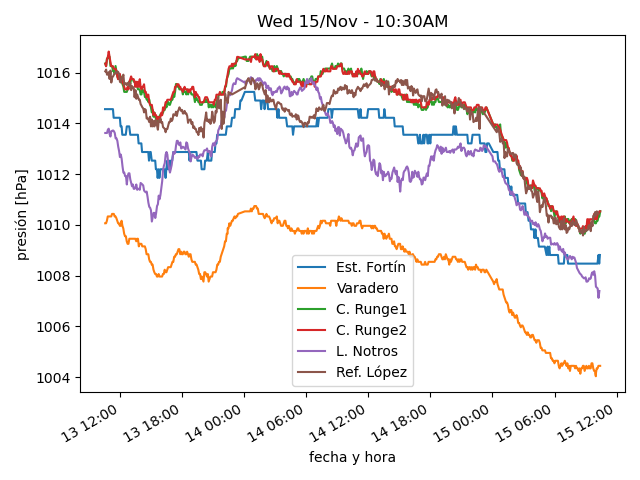
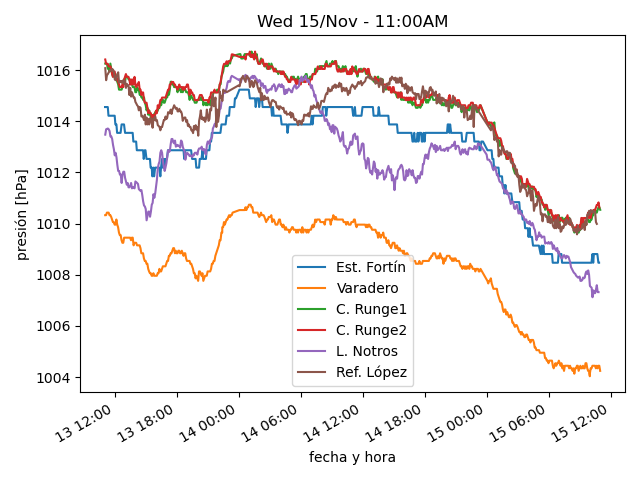
actualiza datos

diff --git a/estaciones/estacion1.html b/estaciones/estacion1.html
@@ -18,32 +18,32 @@
     </tr>
     <tr>
      <td class="stats_data">
-      10:23AM
+      10:53AM
      </td>
     </tr>
     <tr>
      <td class="stats_data">
-      7.2⁰C
+      7.7⁰C
      </td>
     </tr>
     <tr>
      <td class="stats_data">
-      -0.2⁰C
+      -0.1⁰C
      </td>
     </tr>
     <tr>
      <td class="stats_data">
-      59.5%
+      57.5%
      </td>
     </tr>
     <tr>
      <td class="stats_data">
-      1008.81hPa
+      1008.47hPa
      </td>
     </tr>
     <tr>
      <td class="stats_data">
-      26.6/45.9 km/hr W
+      20.2/42.6 km/hr W
      </td>
     </tr>
     <tr>
@@ -53,12 +53,12 @@
     </tr>
     <tr>
      <td class="stats_data">
-      3.4
+      4.1
      </td>
     </tr>
     <tr>
      <td class="stats_data">
-      817.0 W/m²
+      830.0 W/m²
      </td>
     </tr>
    </tbody>

diff --git a/estaciones/estacion2.html b/estaciones/estacion2.html
@@ -18,32 +18,32 @@
     </tr>
     <tr>
      <td class="stats_data">
-      10:24AM
+      10:59AM
      </td>
     </tr>
     <tr>
      <td class="stats_data">
-      6.1⁰C
+      6.7⁰C
      </td>
     </tr>
     <tr>
      <td class="stats_data">
-      2.9⁰C
+      3.2⁰C
      </td>
     </tr>
     <tr>
      <td class="stats_data">
-      79.7%
+      78.4%
      </td>
     </tr>
     <tr>
      <td class="stats_data">
-      1013.92hPa
+      1013.72hPa
      </td>
     </tr>
     <tr>
      <td class="stats_data">
-      45.5/53.0 km/hr NW
+      45.6/52.8 km/hr NW
      </td>
     </tr>
     <tr>
@@ -53,12 +53,12 @@
     </tr>
     <tr>
      <td class="stats_data">
-      6.0
+      7.0
      </td>
     </tr>
     <tr>
      <td class="stats_data">
-      626.0 W/m²
+      768.6 W/m²
      </td>
     </tr>
    </tbody>

diff --git a/estaciones/estacion4.html b/estaciones/estacion4.html
@@ -18,32 +18,32 @@
     </tr>
     <tr>
      <td class="stats_data">
-      10:24AM
+      10:54AM
      </td>
     </tr>
     <tr>
      <td class="stats_data">
-      7.1⁰C
+      6.8⁰C
      </td>
     </tr>
     <tr>
      <td class="stats_data">
-      1.4⁰C
+      1.9⁰C
      </td>
     </tr>
     <tr>
      <td class="stats_data">
-      67.5%
+      70.5%
      </td>
     </tr>
     <tr>
      <td class="stats_data">
-      1007.52hPa
+      1007.62hPa
      </td>
     </tr>
     <tr>
      <td class="stats_data">
-      7.7/11.9 km/hr SW
+      8.1/12.3 km/hr SSW
      </td>
     </tr>
     <tr>
@@ -53,12 +53,12 @@
     </tr>
     <tr>
      <td class="stats_data">
-      7.0
+      8.0
      </td>
     </tr>
     <tr>
      <td class="stats_data">
-      753.3 W/m²
+      844.1 W/m²
      </td>
     </tr>
    </tbody>

diff --git a/estaciones/estacion3.html b/estaciones/estacion3.html
@@ -18,22 +18,22 @@
     </tr>
     <tr>
      <td class="stats_data">
-      10:24AM
+      10:59AM
      </td>
     </tr>
     <tr>
      <td class="stats_data">
-      5.8⁰C
+      5.9⁰C
      </td>
     </tr>
     <tr>
      <td class="stats_data">
-      1.9⁰C
+      2.3⁰C
      </td>
     </tr>
     <tr>
      <td class="stats_data">
-      75.7%
+      77.2%
      </td>
     </tr>
     <tr>
@@ -43,7 +43,7 @@
     </tr>
     <tr>
      <td class="stats_data">
-      19.6/30.7 km/hr NW
+      21.7/31.5 km/hr NNW
      </td>
     </tr>
     <tr>
@@ -53,12 +53,12 @@
     </tr>
     <tr>
      <td class="stats_data">
-      10.0
+      12.0
      </td>
     </tr>
     <tr>
      <td class="stats_data">
-      926.1 W/m²
+      1091.8 W/m²
      </td>
     </tr>
    </tbody>

diff --git a/estaciones/estacion6.html b/estaciones/estacion6.html
@@ -18,32 +18,32 @@
     </tr>
     <tr>
      <td class="stats_data">
-      10:15AM
+      10:40AM
      </td>
     </tr>
     <tr>
      <td class="stats_data">
-      -1.6⁰C
+      -1.4⁰C
      </td>
     </tr>
     <tr>
      <td class="stats_data">
-      -3.1⁰C
+      -2.9⁰C
      </td>
     </tr>
     <tr>
      <td class="stats_data">
-      90.0%
+      89.0%
      </td>
     </tr>
     <tr>
      <td class="stats_data">
-      1011.82hPa
+      1011.38hPa
      </td>
     </tr>
     <tr>
      <td class="stats_data">
-      11.3/29.0 km/hr WNW
+      14.5/29.0 km/hr NE
      </td>
     </tr>
     <tr>
@@ -58,7 +58,7 @@
     </tr>
     <tr>
      <td class="stats_data">
-      899.0 W/m²
+      900.0 W/m²
      </td>
     </tr>
    </tbody>

diff --git a/estaciones/estacion5.html b/estaciones/estacion5.html
@@ -18,32 +18,32 @@
     </tr>
     <tr>
      <td class="stats_data">
-      10:20AM
+      10:50AM
      </td>
     </tr>
     <tr>
      <td class="stats_data">
-      7.3⁰C
+      7.5⁰C
      </td>
     </tr>
     <tr>
      <td class="stats_data">
-      1.4⁰C
+      1.7⁰C
      </td>
     </tr>
     <tr>
      <td class="stats_data">
-      66.0%
+      67.0%
      </td>
     </tr>
     <tr>
      <td class="stats_data">
-      1009.96hPa
+      1009.89hPa
      </td>
     </tr>
     <tr>
      <td class="stats_data">
-      0.0/3.5 km/hr N
+      0.0/2.6 km/hr N
      </td>
     </tr>
     <tr>
